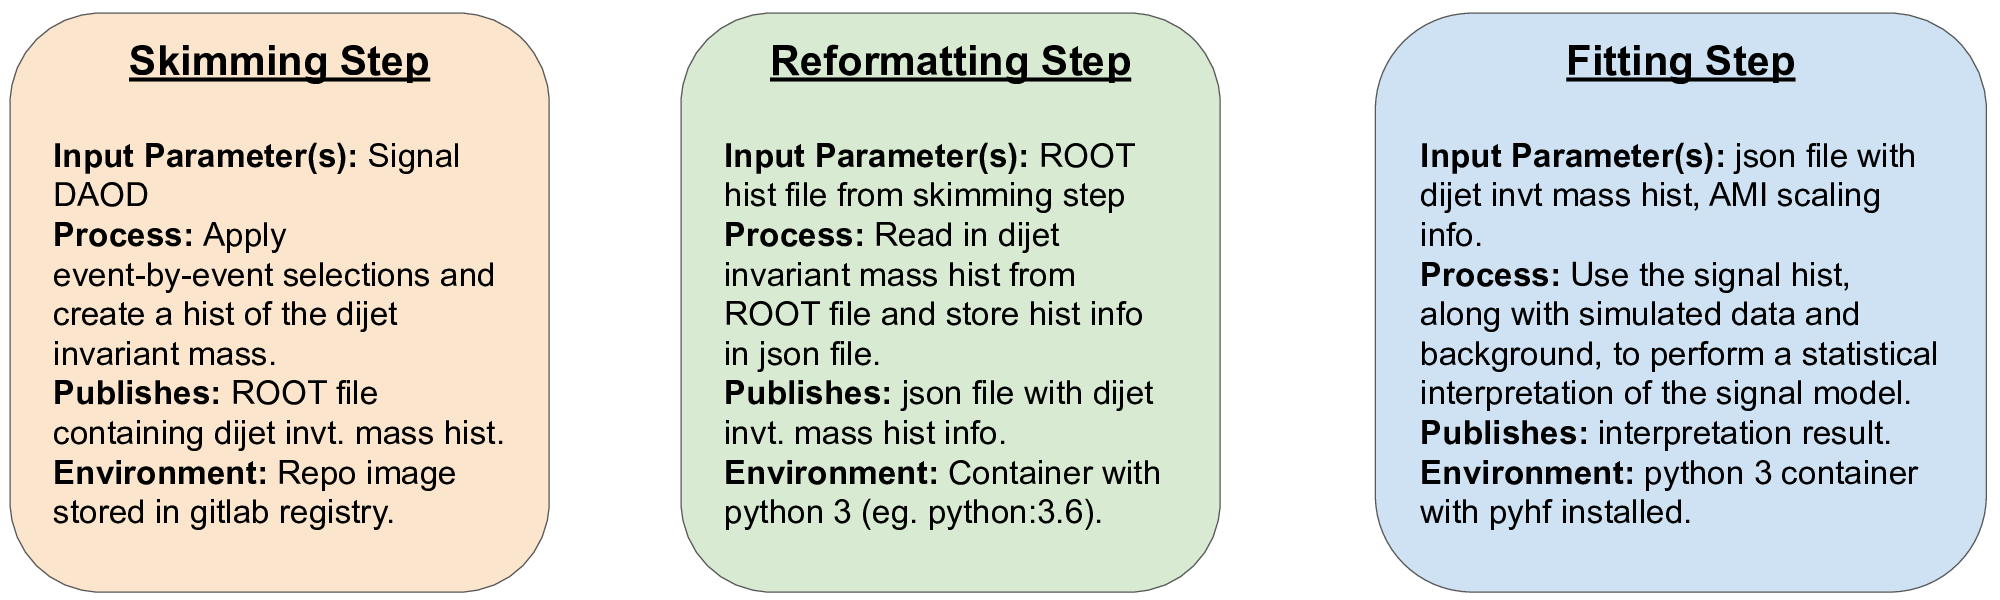
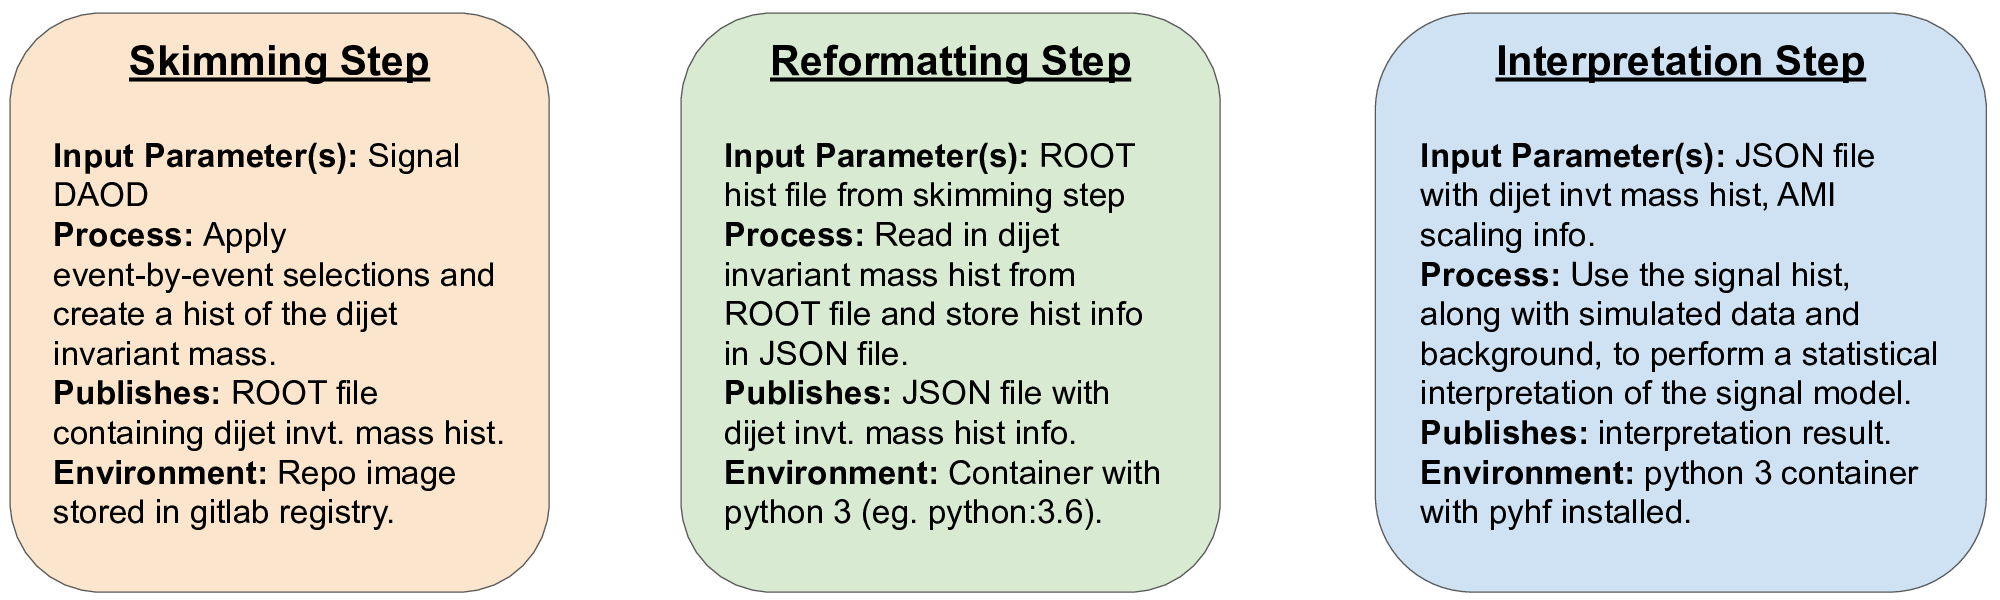
Many updates to 06-steps.md episode, and some minor tweaks to the gitlab-ci and workflow-intro episodes.

diff --git a/_episodes/06-steps.md b/_episodes/06-steps.md
@@ -1,6 +1,6 @@
 ---
-title: "Writing Your Analysis Steps"
-teaching: 20
+title: "Skimming and Reformatting Steps for RECASTing the VHbb Analysis"
+teaching: 10
 exercises: 40
 questions:
 - "FIXME"
@@ -13,32 +13,93 @@ keypoints:
 
 ## Introduction
 
-Now that you have an idea of how the analysis workflow is reproduced by connecting containerized steps, it's time to dive into the gory details of actually encoding them in a steps.yml file, and adding tests in your recast.yml file to develop and validate each step. You can then try writing and validating your own steps.yml file for our VHbb analysis. 
+We now have all the Yadage tools we need to put together our VHbb RECAST workflow, starting by "yadage-ifying" our three analysis steps using the syntax we learned during the intermezzo. First, we'll create a new gitlab repo to contain our analysis workflow. 
 
-## Overview of writing steps and tests
-[FIXME: discuss the technical details of what goes into defining an analysis step, writing a test for each step, and running the tests with the recast run command=-line tool]
+### Skimming Step
+
+<img src="../fig/SkimmingStep.png" alt="Steps" style="width:200px">
+
+We can use essentially the same yadage structure and syntax for defining our analysis steps as we did for the message writing and shouting steps we saw in the intermezzo. So let's start with this structure and fill it in with the information needed to run the `AnalysisPayload` skimming step of our workflow. In your browser, navigate to `https://gitlab.cern.ch/` and click the green `New Project` button. Give your project a name (eg. `my-workflow`), set the visibility level as desired, and click `Create Project`. Now you can copy the repo url from the browser and clone your new project onto your computer:
+
+~~~
+git clone [repo url].git
+~~~
+{: .source}
 
 > ## Exercise
-> Working from your shell, cd out of your analysis repo directory, and clone a git repo containing a skeleton of our RECAST setup that we'll fill in as we go along:
+> 
+> Working from your shell, cd into your new workflow repo, and create your empty steps.yml and workflow.yml files. Fill in the FIXMEs in the following skeleton code to encode the first skimming step of the analysis 
 > ~~~
-> git clone https://gitlab.cern.ch/damacdon/usatlas-bootcamp-recast.git   # FIXME: actually, this repo currently contains the full version. Need to turn it into a skeleton. 
-> ~~~
-> {: .source}
-> [FIXME: list `recast run` commands to initialize and set needed environment variables]
-> cd into the `usatlas-bootcamp-recast` directory, and open the recast.yml and specs/steps.yml file with a text editor. Fill in the FIXMEs in `specs/steps.yml` with the steps needed to perform the analysis. 
->
-> At any point, you can test the steps you've written by running
-> ~~~
-> recast tests shell bootcamp/vhbb [name of test, eg. test_intro] --backend docker
+> [Skeleton for skimming step with FIXMEs will go here]
 > ~~~
 > {: .source}
 > > ## Solution
-> > zzz put finalized version of solution here
+> > [Solution with FIXMEs filled in will go here]
 > {: .solution}
 {: .challenge}
 
+### Reformatting Step
 
+In this step, we read in the dijet invariant mass histogram `h_mjj_kin` that was written out to a ROOT file in the last step, and write it out to a text file so it can be easily read in by the final interpretation step. The required format of the output text file is space-separated histogram bin edges in the first row and space-separated bin contents in the second row. For a five-bin triangle-shaped histogram with bin edges ranging from 0 to 10, for example, the contents would be:
 
+~~~
+0.0 2.0 4.0 5.0 6.0 8.0
+0.0 1.0 2.0 1.0 0.0 
+~~~
+{: .output}
+
+You can try writing this program yourself in the following exercise.
+
+> ## Exercise
+> Write a program that receives as input the path to the ROOT file containing the histograms written out by `AnalysisPayload`, and outputs the text file described above:
+> ~~~
+> ./reformat_hist /path/to/ROOT/file /path/to/text/file
+> ~~~
+> {: .source}
+> 
+> Write a Dockerfile to build an image in which your program can be run as an executable. For consistency with the rest of the tutorial, please make the path to the executable `/run/reformat_hist`. To save time, we provide three "starter" repos. You can choose to work with one of them depending on your desired implementation. 
+>
+> Each repo includes:
+> * a Dockerfile which specifies the base image and installs any required dependencies, switches to `atlas` user, and builds the code if needed (feel free to add more dependencies if you need to!), 
+> * a .gitlab-ci.yml file to automatically build the image when code is pushed to the repo, and
+> * a source code file to start with that includes/imports the libraries/modules that you're likely to need (feel free to add more if needed!), and some guiding comments.
+> 
+> ### Starter repos
+>
+> * **analysisbase ([link to gitlab repo](https://gitlab.cern.ch/damacdon/analysisbase)):** The Dockerfile starts from the atlas/analysisbase:21.2.75 base image, and is largely the same as what we wrote for our main gitlab repo (just with some directory names changed). The source code can then read in the ROOT file, collect the `h_mjj_kin` histogram from it, get the histogram's bin contents and edges, and write them out.
+> 
+> * **uproot ([link to gitlab repo](https://gitlab.cern.ch/damacdon/uproot)):** The Dockerfile starts from the official python:3.6 base image, and installs the uproot python module on top of it. The [uproot.open function](https://uproot.readthedocs.io/en/latest/opening-files.html#uproot-open) can convert the ROOT file into a "ROOTDirectory" object, from which the `h_mjj_kin` can be read and converted to a numpy array with the `numpy()` function, [as described in the github README](https://github.com/scikit-hep/uproot#histograms-tprofiles-tgraphs-and-others).
+>
+> * **rootpy_numpy ([link to gitlab repo](https://gitlab.cern.ch/damacdon/rootpy_numpy)):** The Dockerfile starts from a centos7 image with ROOT (+python2.7 bindings) pre-installed, and   installs the rootpy and root_numpy python modules on top of it. rootpy's [root_open](http://www.rootpy.org/reference/generated/rootpy.io.root_open.html) function can be used to read in the `h_mjj_kin` histogram from the ROOT file (this part is already filled in since the online documentation isn't very thorough), and root_numpy's [hist2array](http://scikit-hep.org/root_numpy/reference/generated/root_numpy.hist2array.html) function can be used to convert the ROOT histogram to a numpy array.
+> 
+> Make a personal fork of the repo you want to work with (or try making your own from scratch if you're wanting an extra challenge!), and make any updates you need to the source code to create the desired executable.
+> > ## Solution
+> > Full working solutions for each repo can be found in the `solution` branch of the repo.
+> {: .solution}
+{: .challenge}
+
+> ## Bonus Exercise
+> In practice, all of our code should be in our analysis repo to avoid bits of it getting lost or forgotten. As a bonus exercise, try disassociating your forked repo from the original parent repo https://gitlab.cern.ch/damacdon/[...], and adding it to your main gitlab repo containing the rest of your analysis code as a submodule.
+{: .challenge}
+
+Now that we've got our environment and executable set up, we can encode this second step in yadage and add it to the steps.yml file:
+
+~~~
+reformatting_step:
+  process:
+    process_type: interpolated-script-cmd
+    script: |
+      source ~/release_setup.sh		# NOTE: This command is *only* needed if you're using the analysisbase container, where you need to source the ATLAS relase environment. Otherwise it should be commented out!
+      /run/reformat_hist {inputfile} {outputfile}
+  publisher:
+    publisher_type: interpolated-pub
+    publish:
+      hist_txt: '{outputfile}'
+  environment:
+    environment_type: docker-encapsulated
+    image: [image from the registry of the repo you forked in the last exercise. Eg. gitlab-registry.cern.ch/damacdon/uproot:solution]
+~~~
+{: .source}
 
 {% include links.md %}
 

diff --git a/_episodes/04-workflow-intro.md b/_episodes/04-workflow-intro.md
@@ -43,7 +43,10 @@ If it weren't for the docker containers involved in RECAST, this could conceivab
 > ## Background preservation
 > In our sample analysis, we're using an analytic falling exponential as our background, but a real ATLAS analysis will have many different sources of background, each obtained from its own set of DAODs, and involving its own set of systematics that will affect the fit result. Since these background contributions won't change when the analysis is re-interpreted with a new model, it's in general important to preserve the contribution of these backgrounds to the final analysis results in the analysis code so that only need to run the signal DAOD through the whole analysis chain when the analysis is re-interpreted with RECAST. 
 >
->  <img src="../fig/background_preservation.png" alt="Background preservation" style="width:300px"> 
+> <img src="../fig/background_preservation.png" alt="Background preservation" style="width:300px"> 
+>
+> Another important point to keep in mind is that RECAST does **not** on its own document the exact version of Athena code that was originally used to produce your background and signal DAODs, since your code may not necessarily be compatible with DAODs produced with different releases of the ATLAS derivation framework. Therefore, it would be good to document somewhere (perhaps on your gitlab repo) exactly which ATLASDerivation cache and p-tags were used to produce the DAODs used in your analysis so other analysts know to produce new signals for RECAST with this same version. See the [DerivationProductionTeam](https://twiki.cern.ch/twiki/bin/viewauth/AtlasProtected/DerivationProductionTeam#Info_on_AtlasDerivation_caches_a) page for more information about derivation production and organzation.
+> 
 {: .callout}
 
 ## Yadage
@@ -57,9 +60,9 @@ We'll get into the syntax part of yadage in the upcoming *intermezzo*, during wh
 In the yadage approach, the workflow is divided into distinct steps, called packaged activities - or "packtivities" - each of which will run inside a docker container. The steps get linked into a workflow using something called a dynamic acyclic graph (DAG), where each node of the DAG is a step, and directed edges connecting the steps represent the (not necessarily linear) dependencies between steps. The yadage workflow engine then uses this DAG to optimize the execution of the workflow.
 
 > ## More reading on Yadage
-> Nice introductory yadage tutorial: https://yadage.github.io/tutorial/
+> Nice introductory yadage tutorial: [https://yadage.github.io/tutorial/](https://yadage.github.io/tutorial/)
 > 
-> [Yadage and Packtivity – analysis preservation usingparametrized workflows](https://arxiv.org/pdf/1706.01878.pdf) (paper on arXiv with lots of great background info)
+> [Yadage and Packtivity – analysis preservation using parametrized workflows](https://arxiv.org/pdf/1706.01878.pdf) (paper on arXiv with lots of great background info)
 {: .callout}
 
 ## Steps
@@ -69,11 +72,15 @@ Each step in the workflow is fully described by:
 * **Process description:** Instructions - typically a bash command or script - for transforming the input data into output to be fed into the next step, or the final result if it's the last step in the workflow
 * **Environment description:** The environment in which the instructions need to be executed. This is specified by the image used to start the container in which the step will run.
 
+and these three components are codified with dedicated yadage syntax, as we'll see in the upcoming "Yadage Helloworld" intermezzo.
+
+### VHbb RECAST Steps
+
 The three steps involved in interpreting our VHbb analysis are as follows:
 
 * **Skimming Step:** This is the step that we're already familiar with, where we take in the signal DAOD, loop through it event-by-event, apply some selections, and output a histogram of the dijet invariant mass variable that we'll want to fit our model to the data. This step will take place in the custom `AnalysisBase` container we recently created for our analysis repo. 
-* **Reformatting Step:** The pyhf fitting framework that we'll use for re-interpretation is written in pure python and runs outside of ROOT, so we can simplify the fitting step by reformatting the histogram that we wrote to a ROOT file in the previous skimming step into a json file that is readable in pure python, and outputting this json file to the fitting step.  
-* **Fitting Step:** Here, we use pyhf to do our statistical analysis of the signal, background, and data to determine whether we can detect our signal model in the data. We need some extra pieces of information to scale the signal appropriately, which we can get from the AMI database (this will be discussed further soon). 
+* **Reformatting Step:** The pyhf statistical interpretation framework that we'll use for re-interpretation is written in pure python and runs outside of ROOT, so we can simplify the fitting step by reformatting the histogram that we wrote to a ROOT file in the previous skimming step into a json file that is readable in pure python, and outputting this json file to the interpretation step.  
+* **Interpretation Step:** Here, we use pyhf to do our statistical analysis of the signal, background, and data to determine whether we can detect our signal model in the data. We need some extra pieces of information to scale the signal appropriately, which we can get from the AMI database (this will be discussed further soon). 
 
 These steps are summarized in the following illustration:
 

diff --git a/_episodes/03-gitlab-ci.md b/_episodes/03-gitlab-ci.md
@@ -118,7 +118,7 @@ So far, you've been starting your containers from the atlas/analysisbase:21.2.75
 Now that you've added a Dockerfile to your gitlab repo, you can proceed with updating your `.gitlab-ci.yml` to actually build the container during the CI/CD pipeline and store it in the gitlab registry. You can later pull it from the gitlab registry just as you would any other container, but in this case using your CERN credentials. 
 
 
-So, if there isn't yet code in your `.gitlab-ci.yml` file to build the container, you can add a build stage under the `stages` section
+So, if there isn't yet code in your `.gitlab-ci.yml` file to build the container, you can add a build stage under the `stages` section.
 
 ~~~
 stages:
